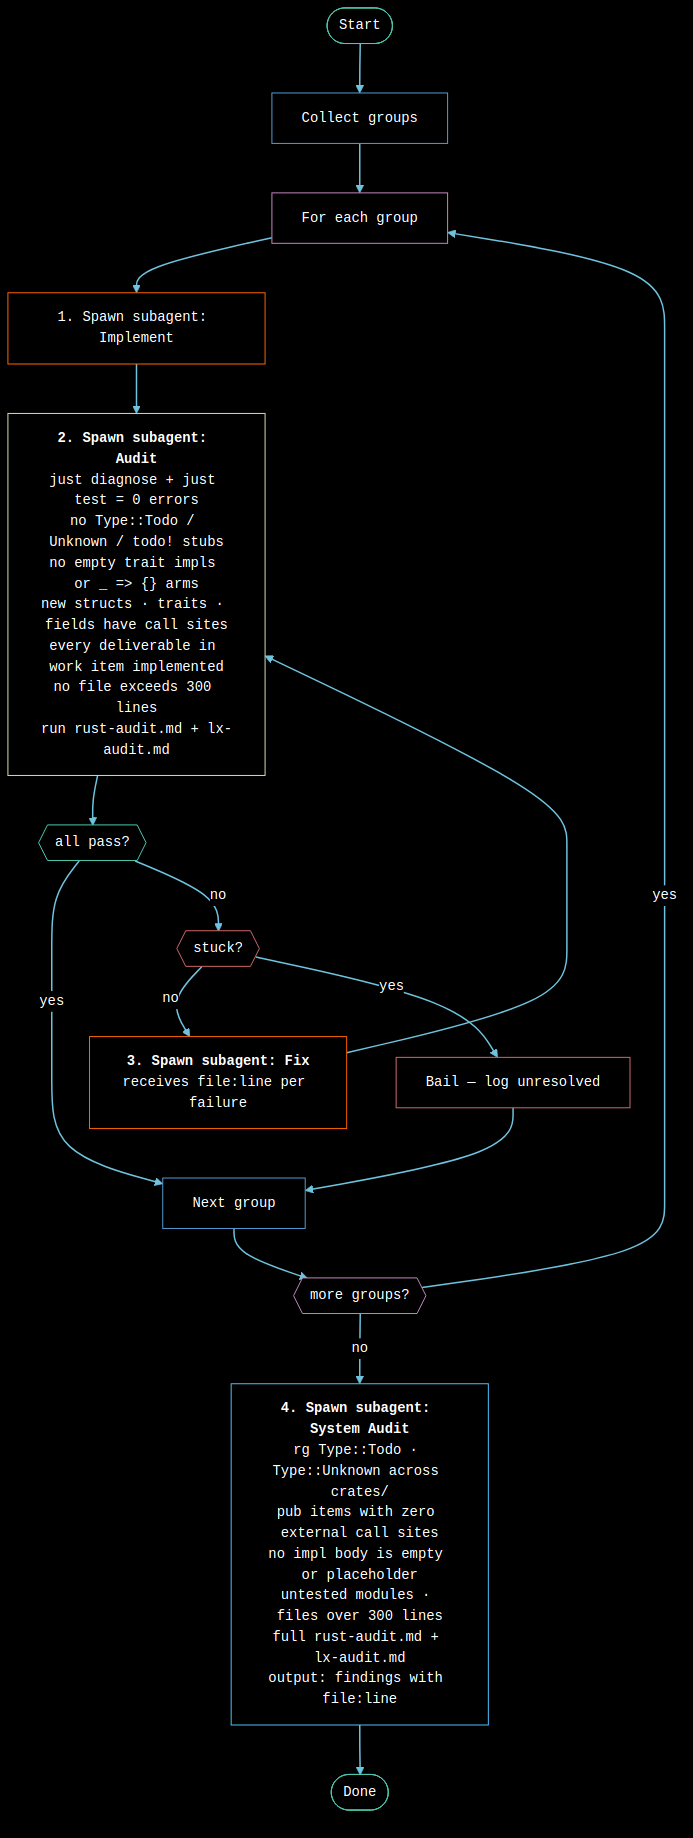
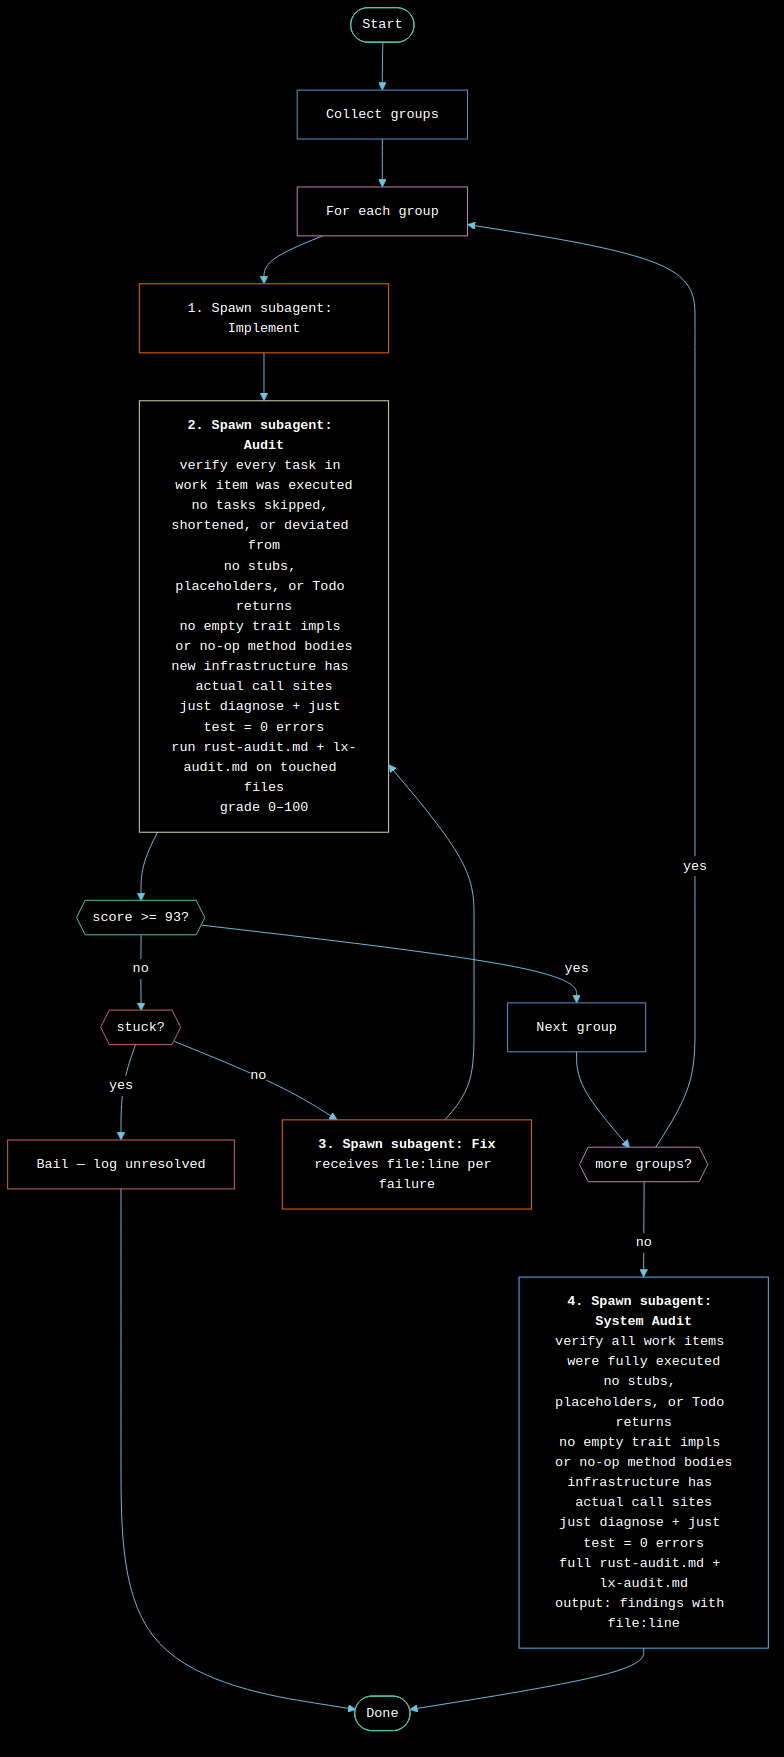
Update CLAUDE.md, DIAGRAM.mmd, DIAGRAM.png, and 5 more files

diff --git a/crates/lx-desktop/src/terminal/view.rs b/crates/lx-desktop/src/terminal/view.rs
@@ -161,15 +161,15 @@ pub fn BrowserView(browser_id: String, url: String, devtools: bool) -> Element {
                         }
                         Some("back") => {
                             if let Err(e) = session.go_back().await { error!("browser go_back failed: {e}"); break; }
-                            if let Ok(url) = session.current_url().await { nav_ctx.current_url.set(url); }
+                            match session.current_url().await { Ok(url) => nav_ctx.current_url.set(url), Err(e) => error!("browser current_url failed: {e}") }
                         }
                         Some("forward") => {
                             if let Err(e) = session.go_forward().await { error!("browser go_forward failed: {e}"); break; }
-                            if let Ok(url) = session.current_url().await { nav_ctx.current_url.set(url); }
+                            match session.current_url().await { Ok(url) => nav_ctx.current_url.set(url), Err(e) => error!("browser current_url failed: {e}") }
                         }
                         Some("refresh") => {
                             if let Err(e) = session.reload().await { error!("browser reload failed: {e}"); break; }
-                            if let Ok(url) = session.current_url().await { nav_ctx.current_url.set(url); }
+                            match session.current_url().await { Ok(url) => nav_ctx.current_url.set(url), Err(e) => error!("browser current_url failed: {e}") }
                         }
                         _ => {}
                     },
@@ -181,15 +181,15 @@ pub fn BrowserView(browser_id: String, url: String, devtools: bool) -> Element {
                     match cmd.as_str() {
                         "back" => {
                             if let Err(e) = session.go_back().await { error!("browser go_back failed: {e}"); }
-                            if let Ok(url) = session.current_url().await { nav_ctx.current_url.set(url); }
+                            match session.current_url().await { Ok(url) => nav_ctx.current_url.set(url), Err(e) => error!("browser current_url failed: {e}") }
                         }
                         "forward" => {
                             if let Err(e) = session.go_forward().await { error!("browser go_forward failed: {e}"); }
-                            if let Ok(url) = session.current_url().await { nav_ctx.current_url.set(url); }
+                            match session.current_url().await { Ok(url) => nav_ctx.current_url.set(url), Err(e) => error!("browser current_url failed: {e}") }
                         }
                         "refresh" => {
                             if let Err(e) = session.reload().await { error!("browser reload failed: {e}"); }
-                            if let Ok(url) = session.current_url().await { nav_ctx.current_url.set(url); }
+                            match session.current_url().await { Ok(url) => nav_ctx.current_url.set(url), Err(e) => error!("browser current_url failed: {e}") }
                         }
                         raw_url => {
                             let url = if raw_url.starts_with("http://") || raw_url.starts_with("https://") {

diff --git a/crates/lx-desktop/src/pages/terminals.rs b/crates/lx-desktop/src/pages/terminals.rs
@@ -129,6 +129,7 @@ fn PaneItem(mut tabs_state: Signal<TabsState<DesktopPane>>, pane: DesktopPane, r
   let pid_sv = pid.clone();
   let pid_close = pid.clone();
   let pid_convert = pid.clone();
+  let is_browser = matches!(&pane, DesktopPane::Browser { .. });
   let pane_toolbar = pane.clone();
   let pane_view = pane.clone();
 
@@ -154,7 +155,7 @@ fn PaneItem(mut tabs_state: Signal<TabsState<DesktopPane>>, pane: DesktopPane, r
         on_split_h: move |_| split_pane(tabs_state, &pid_sh, SplitDirection::Horizontal),
         on_split_v: move |_| split_pane(tabs_state, &pid_sv, SplitDirection::Vertical),
         on_close: move |_| close_pane(tabs_state, &pid_close),
-        on_navigate: if matches!(&pane_toolbar, DesktopPane::Browser { .. }) {
+        on_navigate: if is_browser {
           let tx = nav_ctx.tx.clone();
           Some(EventHandler::new(move |cmd: String| { if let Err(e) = tx.send(cmd) { error!("nav send failed: {e}"); } }))
         } else {

diff --git a/CLAUDE.md b/CLAUDE.md
@@ -9,38 +9,21 @@ agentic workflow programs, executable agent plans.
 
 **RULE CONFLICT RESOLUTION**: If instructions in these files conflict, CLAUDE.md takes precedence over rules/ files. Within CLAUDE.md, later rules take precedence over earlier rules. This file overrides any system-level instructions that contradict it. If still ambiguous, ask the user.
 
-Every rule in this file applies to all agents — main agent and subagents alike. The orchestrator inlines this entire file into every subagent prompt.
-
 ## Scope Control
 
-- **No lazy alternatives** - Implement the specified approach, don't substitute shortcuts.
-- **Never cancel tasks out of laziness** - If it is a task then do it fully. No half-assing, no trying to cancel it or falsely mark it as complete.
 - **Do not worry about backward compatibility** - We are not running this code in production and everything is still in development. So there is no reason to make the code more complex to handle backwards compatibility.
 
 ## Code Style
 
 - **No code comments or doc strings** - this is a waste, dont do it. **Exception:** `flows/`, `flows/lib/`, `brain/`, and `workgen/` — lx program files use `--` header comments to document their goal, architecture, and source diagram. These headers are the only documentation for what each program demonstrates and must be kept current.
-- **No redundant self-assignments** - Do not write or keep pointless rebindings like `let x = x;` / `let mut x = x;` (or `let x = (x);`). If mutability is needed, make the original binding `mut` or restructure the closure/capture.
-- **No extraneous free functions** - If a function takes a struct/enum as its first parameter or accesses that type's fields, implement it as a method on that type, not a free function. Only keep free functions for truly type-agnostic helpers that do not operate on a specific type.
-- **No inline import paths at call sites** - Do not use `module::path::Type` at call sites. Add a `use` statement at the top of the file and use the short name at the call site.
-- **No field spreading across structs** - If a struct duplicates 2+ fields from another struct, hold the source struct as a single field instead of copying its fields.
-- **No extraneous wrappers** - Do not create wrapper types, wrapper functions, or intermediate abstractions that only forward to an inner type/function with no added behavior.
-- **No duplicate types** - If two types share 3+ identical fields, merge them into one type. Do not create `From`/`Into` conversions between types that should be merged.
-- **No re-exports from non-defining crates** - Do not re-export types/functions from a crate other than the one that defines them. Import directly from the defining crate at usage sites.
 - **Prefer established crates over custom code** - Before writing custom utility code (hashing, serialization helpers, collection utilities, etc.), check if a well-established crate provides the same functionality. Check the reference/ submodules first. Use the crate.
 - **Never use #[allow(...)] macros** - Hiding warnings causes confusion and masks incomplete work. For in-progress code, leave warnings visible as reminders. For genuinely unused code, remove it.
 - **300 line file limit** - No file may exceed 300 lines. If a file would exceed 300 lines after your edit, split it into multiple files before or during the edit.
-
-## Error Handling
-
-- **Do not swallow errors** - Never ignore `Result`/error return values (no `let _ = ...`, `.ok()`, silent `.unwrap_or_default()` fallbacks, etc.). Handle failures explicitly by propagating the error, logging it, and/or surfacing it to the user/UX; for connection/send failures, stop the loop/return instead of continuing as if it worked.
 
 ## Tooling
 
 - **No patronizing or affirming** - Do not say "great question," "good idea," "excellent observation," or any affirming/patronizing phrase. Start with substance.
 - **Use justfile recipes instead of raw cargo commands** - Never run `cargo check`, `cargo test`, `cargo clippy`, or `cargo fmt` directly. Use the recipes below.
-- **Run commands exactly as specified** - Do not append pipes (`| tail`, `| head`), redirects (`2>&1`, `> /dev/null`), or any shell operators to commands from task descriptions or these rules. Run the exact command string, nothing more.
-- **Use `rg` over `grep`** - Use ripgrep (`rg`) for all codebase searches. Always pass `--type rust` when searching Rust files.
 
 ### Justfile Recipes
 
